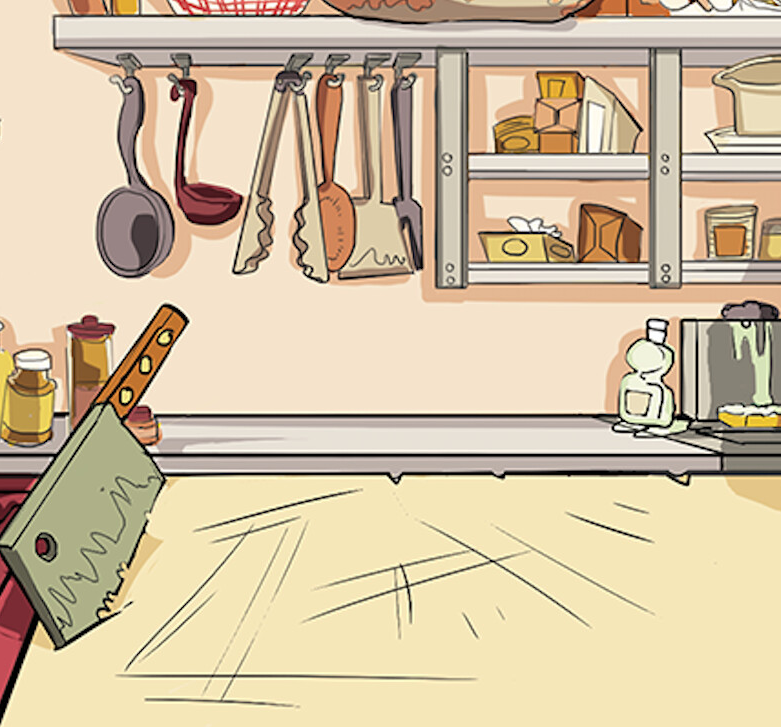
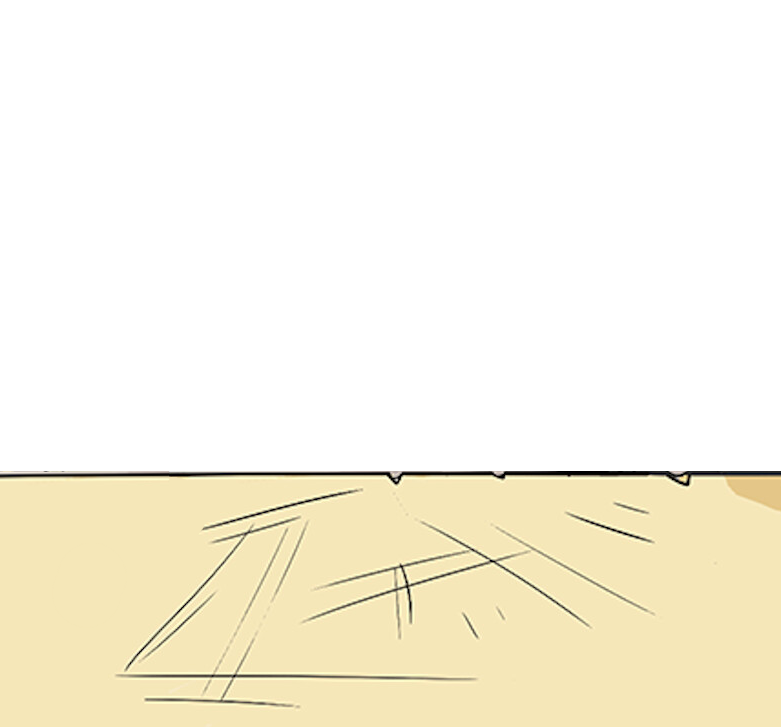
image serveur

diff --git a/index.html b/index.html
@@ -15,6 +15,10 @@
             src="./ressources/background/servingBorder.png"
             class="fillSpaceBackground"
           />
+          <img
+            src="ressources/background/servingBackground.png"
+            class="tableServing"
+          />
           <div class="empty"></div>
         </div>
         <div class="order" id="order"></div>
@@ -38,36 +42,42 @@
             <div class="upgrade2 button"></div>
             <div class="upgrade3 button"></div>
             <div class="upgrade4 button"></div>
+            <img src="./ressources/chefs/chef0.png" class="chef" />
           </div>
           <div class="character">
             <div class="upgrade1 button"></div>
             <div class="upgrade2 button"></div>
             <div class="upgrade3 button"></div>
             <div class="upgrade4 button"></div>
+            <img src="./ressources/chefs/chef1.png" class="chef" />
           </div>
           <div class="character">
             <div class="upgrade1 button"></div>
             <div class="upgrade2 button"></div>
             <div class="upgrade3 button"></div>
             <div class="upgrade4 button"></div>
+            <img src="./ressources/chefs/chef2.png" class="chef" />
           </div>
           <div class="character">
             <div class="upgrade1 button"></div>
             <div class="upgrade2 button"></div>
             <div class="upgrade3 button"></div>
             <div class="upgrade4 button"></div>
+            <img src="./ressources/chefs/chef3.png" class="chef" />
           </div>
           <div class="character">
             <div class="upgrade1 button"></div>
             <div class="upgrade2 button"></div>
             <div class="upgrade3 button"></div>
             <div class="upgrade4 button"></div>
+            <img src="./ressources/chefs/chef4.png" class="chef" />
           </div>
           <div class="character">
             <div class="upgrade1 button"></div>
             <div class="upgrade2 button"></div>
             <div class="upgrade3 button"></div>
             <div class="upgrade4 button"></div>
+            <img src="./ressources/chefs/chef5.png" class="chef" />
           </div>
         </div>
       </div>

diff --git a/serving.js b/serving.js
@@ -33,6 +33,8 @@ var Burger = class Burger {
     this.speedIngredient = 40;
 
     this.pending = false;
+
+    this.chefImage;
   }
 
   //sleep fonction
@@ -84,6 +86,7 @@ var Burger = class Burger {
         imageIngredient.style.bottom = "0px";
         imageIngredient.style.visibility = "visible";
         imageIngredient.style.paddingBottom = "600px";
+        imageIngredient.style.zIndex = "10";
         imageIngredient.src = "./ressources/ingredients/" + ingredient + ".gif";
 
         await this.addIngredient(
@@ -153,5 +156,10 @@ var Burger = class Burger {
     var emptyDiv = document.createElement("div");
     this.servingDiv.appendChild(emptyDiv);
     emptyDiv.position = "relative";
+
+    this.chefImage = document.createElement("img");
+    this.servingDiv.appendChild(this.chefImage);
+    this.chefImage.classList.add("servingChef");
+    this.chefImage.src = "./ressources/chefs/chef0.png";
   }
 };

diff --git a/style.css b/style.css
@@ -85,7 +85,7 @@
 
 .button {
   width: 100%;
-  height: 30px;
+  height: 10%;
   border-radius: 5px;
 }
 
@@ -120,13 +120,20 @@
   background-color: white;
   position: relative;
   overflow: hidden;
-  background-image: url("ressources/background/servingBackground.png");
 }
 
 .fillSpaceBackground {
   width: 100%;
   height: 100%;
   z-index: 100;
+}
+
+.tableServing {
+  position: absolute;
+  width: 100%;
+  z-index: 2;
+  bottom: 0px;
+  left: 0px;
 }
 
 .money {
@@ -139,4 +146,19 @@
 @font-face {
   font-family: Segment7Standard;
   src: url("./ressources/Segment7Standard.otf") format("opentype");
+}
+
+.chef {
+  position: relative;
+  -webkit-transform: translateX(-50%);
+  left: 50%;
+  width: 100%;
+}
+
+.servingChef {
+  position: absolute;
+  width: 100%;
+  height: 100%;
+  z-index: 0;
+  top: 0px;
 }
